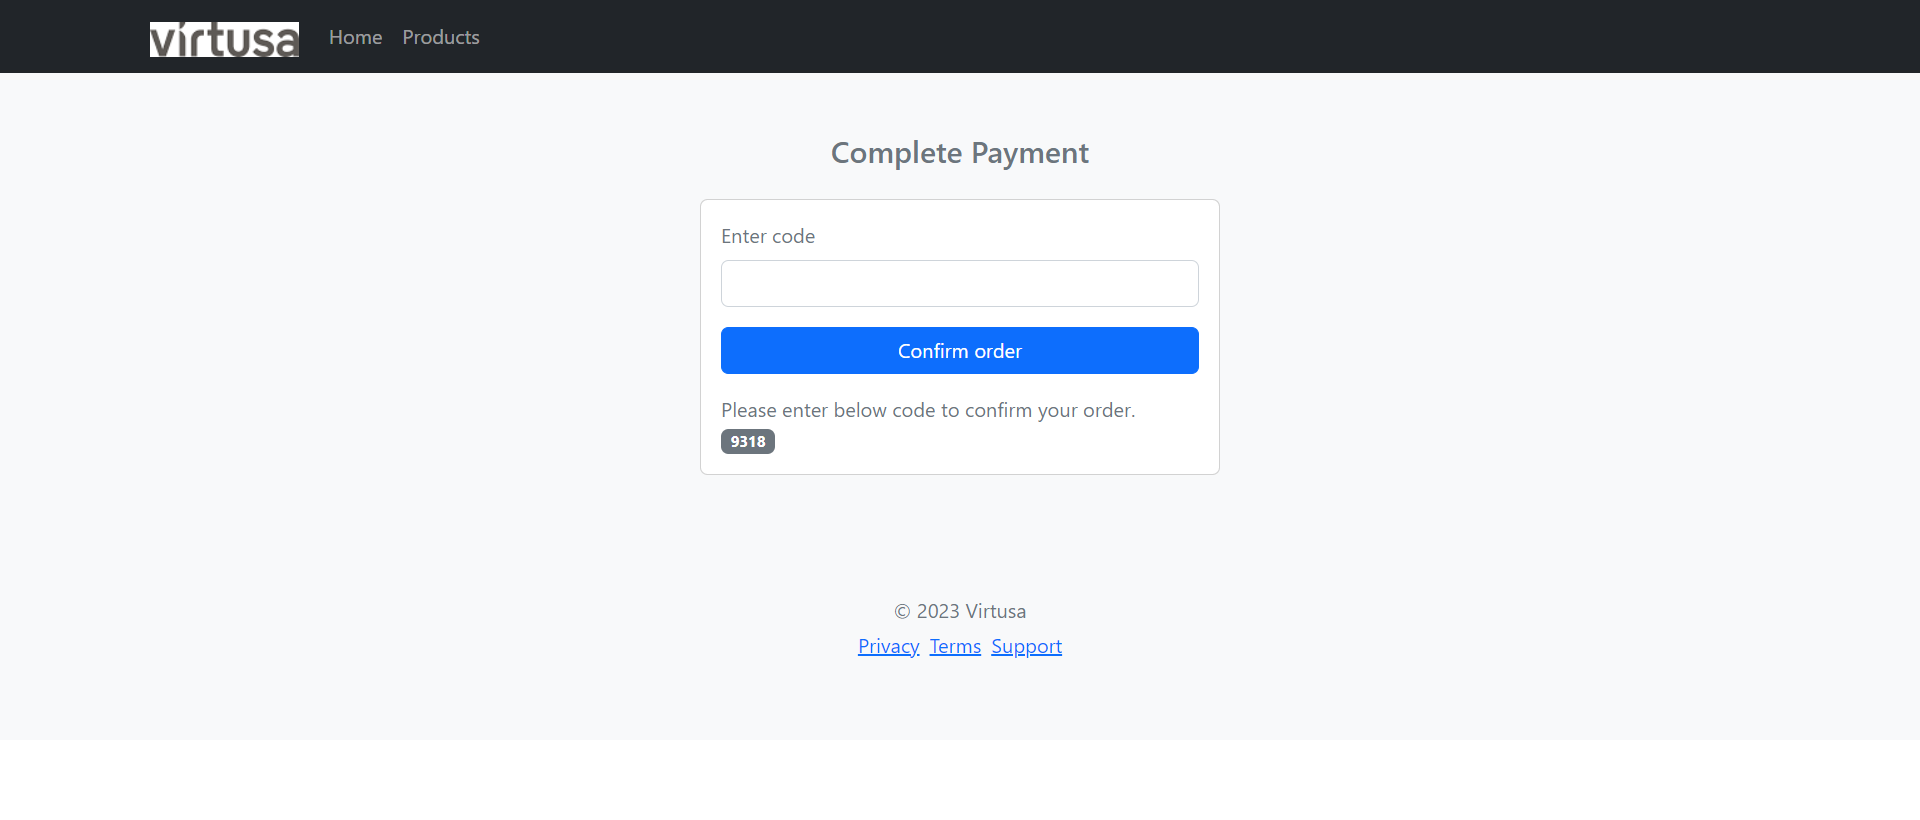
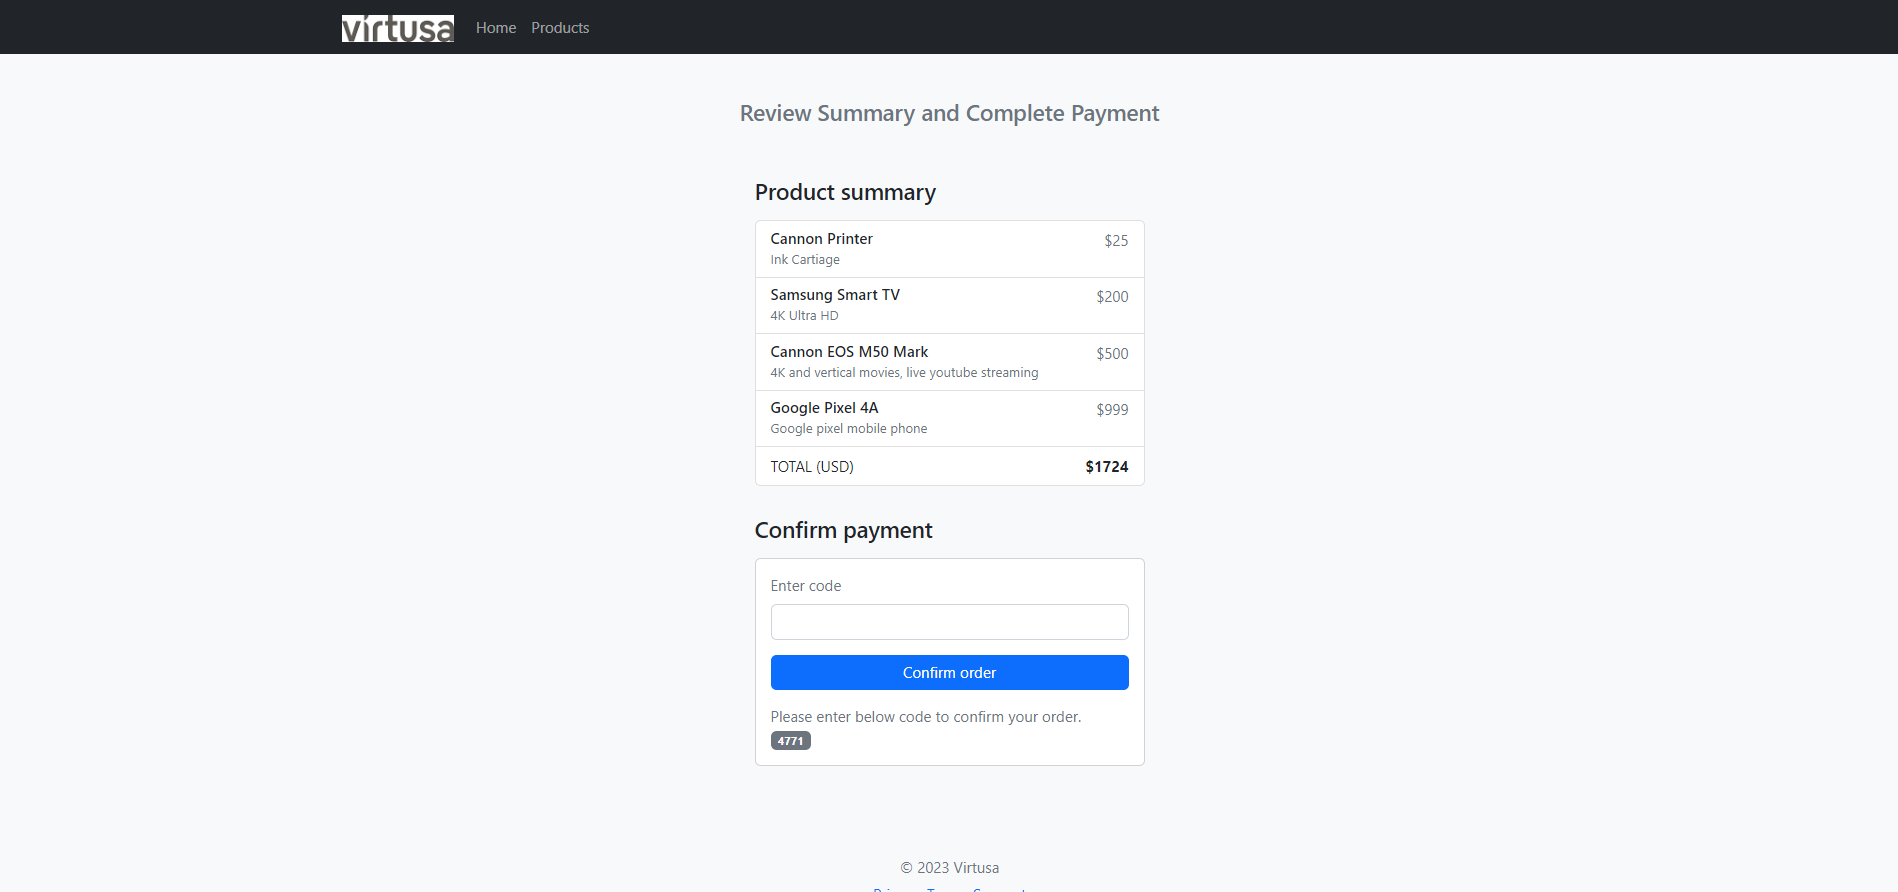
added product summary into the payment page

diff --git a/src/Components/Pages/Checkout/Payments.js b/src/Components/Pages/Checkout/Payments.js
@@ -6,9 +6,11 @@ import { useState } from 'react';
 import { updateCheckout } from '../../../Store/Reducers/CheckoutReducer';
 import { Link, useNavigate } from 'react-router-dom';
 import CardPayments from './CardPayments';
+import { getCartTotal } from '../../../Helpers/commonUtils';
 
 function Payments() {
   const checkoutData = useSelector((state) => state.checkout.value);
+  const orderProducts = checkoutData?.orders;
   const paymentMode = checkoutData?.payment?.payment_mode;
   const [codOtp] = useState(Math.floor(1000 + Math.random() * 9000));
   const [confirmOtp, setConfirmOtp] = useState('');
@@ -35,7 +37,7 @@ function Payments() {
         <section className="checkout-page-section py-5">
           <Container>
             <Row>
-              <Col className="text-center mb-3">
+              <Col className="text-center mb-5">
                 <h4>
                   <span className="text-muted">
                     {constants.COMPLETE_PAYMENT_HEADING_TITLE}
@@ -45,7 +47,42 @@ function Payments() {
             </Row>
 
             <Row className="justify-content-md-center">
+              <Col md={paymentMode === 'cod' ? 4 : 6} className="mb-3">
+                <h4 className="mb-3">{constants.PRODUCT_SUMMARY_LABEL}</h4>
+
+                <ul className="list-group mb-3">
+                  {Array.isArray(orderProducts) && orderProducts.length > 0
+                    ? orderProducts.map((prodcusts, index) => {
+                        return (
+                          <li
+                            className="list-group-item d-flex justify-content-between lh-condensed"
+                            key={index}
+                          >
+                            <div className="text-start">
+                              <h6 className="my-0">{prodcusts?.name}</h6>
+                              <small className="text-muted">
+                                {prodcusts?.brief_desc}
+                              </small>
+                            </div>
+                            <span className="text-muted">
+                              ${prodcusts?.price}
+                            </span>
+                          </li>
+                        );
+                      })
+                    : constants.CART_NO_PRODUCTS_TITLE}
+
+                  <li className="list-group-item d-flex justify-content-between">
+                    <span>{constants.CART_TOTAL_TITLE}</span>
+                    <strong>${getCartTotal(orderProducts)}</strong>
+                  </li>
+                </ul>
+              </Col>
+            </Row>
+
+            <Row className="justify-content-md-center">
               <Col md={paymentMode === 'cod' ? 4 : 6}>
+                <h4 className="mb-3">{constants.CONFIRM_PAYMENT_LABEL}</h4>
                 {userErrorMessage && (
                   <div className="mb-3">
                     <Alert
@@ -100,7 +137,9 @@ function Payments() {
                   ) : (
                     <Alert variant="danger">
                       {constants.COMPLETE_PAYMENT_NOT_AVIAL_CONTENT}
-                      <Link className="btn btn-primary mx-2" to='/'>{constants.BACK_TO_HOME_BUTTON_TITLE}</Link>
+                      <Link className="btn btn-primary mx-2" to="/">
+                        {constants.BACK_TO_HOME_BUTTON_TITLE}
+                      </Link>
                     </Alert>
                   )}
                 </div>

diff --git a/src/Helpers/en.js b/src/Helpers/en.js
@@ -44,7 +44,7 @@ const constants = {
   PRODUCT_DESCRIPTION_TITLE: 'Brief Description',
   PRODUCT_PRICE_TITLE: 'Price',
   RELOAD_PRODUCTS_BUTTON_TITLE: 'reload default data',
-  COMPLETE_PAYMENT_HEADING_TITLE: 'Complete Payment',
+  COMPLETE_PAYMENT_HEADING_TITLE: 'Review Summary and Complete Payment',
   COMPLETE_PAYMENT_ENTER_CODE_LABEL: 'Enter code',
   COMPLETE_PAYMENT_ENTER_CODE_NOTE_CONTENT:
     'Please enter below code to confirm your order.',
@@ -65,5 +65,7 @@ const constants = {
   PAYMENT_DETAILS_MODE_LABEL: 'Payment Mode',
   PAYMENT_DETAILS_STATUS_LABEL: 'Payment Status',
   PAYMENT_DETAILS_ISSUER_LABEL: 'Payment Issuer',
+  PRODUCT_SUMMARY_LABEL: 'Product summary',
+  CONFIRM_PAYMENT_LABEL: 'Complete payment',
 };
 export default constants;
